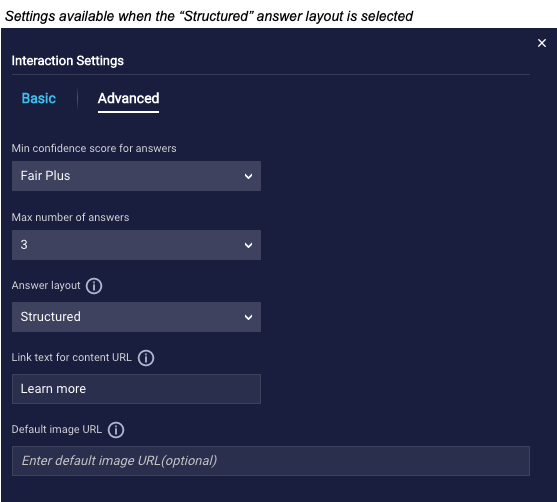
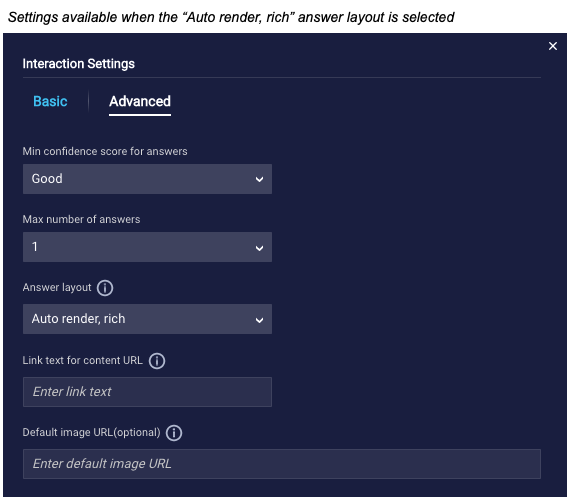
Update KnowledgeAI tile doc based on setting changes

Changed region(s): [[0.0, 0.0, 1.0, 1.0], [0.1526, 0.1811, 0.3052, 0.2414]]

diff --git a/pages/Documents/ConversationalAI/ConversationBuilder/Interactions/integrations.md b/pages/Documents/ConversationalAI/ConversationBuilder/Interactions/integrations.md
@@ -71,32 +71,30 @@ Powering bots with intelligent answers can increase containment: It helps to ens
 
 #### How the answers are rendered
 
-When you configure a Knowledge AI interaction, you specify an **Answer layout** for the answers, one of:
+When you configure a Knowledge AI interaction, you specify an **Answer layout** for the answers, i.e., one of these:
 
-* Structured
-* Simple
-* Custom 
+<img style="width:400px" src="img/ConvoBuilder/knowledge_ai_answerlayout.png">
 
-Both the Structured and Simple layouts are *rendered automatically*, and each uses a particular layout. With these options, there's no need to follow the Knowledge AI interaction with subsequent interactions that display the answers. The Knowledge AI interaction handles it all: both the knowledge base search and the rendering of the answers. When it meets your needs, one of these options is the simpler choice.
+The first two options are *rendered automatically*, and each uses a particular layout. With these options, there's no need to follow the Knowledge AI interaction with subsequent interactions that display the answers. The Knowledge AI interaction handles it all: both the knowledge base search and the rendering of the answers. When it meets your needs, one of these options is the simpler choice.
 
-If you require control over the article content and layout that's used, you can choose to use a Custom answer layout. In this case, you must follow the Knowledge AI interaction with subsequent interactions that display the answers.
+If you require control over the article content and layout that's used, you can choose to use a custom answer layout instead of auto rendering. In this case, you must follow the Knowledge AI interaction with subsequent interactions that display the answers.
 
 Select an answer layout based on the target channels and your requirements. For more on this interaction’s channel-level support, see [here](conversation-builder-interactions-interaction-support.html).
 
-#### The Structured answer layout
+#### The "Auto render, rich" answer layout
 
-The Structured layout looks like this:
+This layout looks like this:
 
 <img style="width:600px" src="img/ConvoBuilder/knowledge_ai_rich.png">
 
-With the Structured layout:
+With this layout:
 
 * Anywhere from one to three results are returned based on the maximum number of answers that you've specified in the interaction.
-* The results degrade gracefully to the Simple layout when the channel in use doesn't support the carousel.
+* The results degrade gracefully to the "Auto render, plain" layout when the channel in use doesn't support the carousel.
 
-#### The Simple answer layout
+#### The "Auto render, plain" answer layout
 
-The Simple layout doesn’t include rich elements like images. If the channel is Web messaging, which supports `href` tags, the output looks like this:
+This layout doesn’t include rich elements like images. If the channel is Web messaging, which supports `href` tags, the output looks like this:
 
 <img style="width:600px" src="img/ConvoBuilder/knowledge_ai_plain.png">
 
@@ -104,7 +102,7 @@ On all other channels, it looks like this:
 
 <img style="width:700px" src="img/ConvoBuilder/knowledge_ai_plain2.png">
 
-With the Simple layout:
+With this layout:
 
 * Only a single, best result is returned regardless of the maximum number of answers that you've specified in the interaction.
 * Any HTML in the article's content is **not** removed. (Take note of the formatting applied to **Cancel Flight** in the image above.) Use HTML in your source knowledge base only when your target channels support it.
@@ -129,19 +127,19 @@ With the Simple layout:
         This field isn't shown if you've selected an [external knowledge base that doesn't use LivePerson AI](knowledgeai-external-knowledge-bases-external-kbs-without-liveperson-ai.html). In this case, the results are simply those returned by the call to the external CMS.
 
     * **Max number of answers**: Select the maximum number of answers to return from the knowledge base, anywhere from one to three. The default value is one.
-    * **Answer layout**: Select "Structured," "Simple," or "Custom" based on your requirements. These layout options are discussed farther above.
-    * **Link text for content URL**: This setting is available when you select "Structured" or "Simple" for the **Answer layout**. Enter the "learn more" text to use. You can enter a botContext or environment variable here, e.g., {$botContext.\<name\>}. When the **Structured** layout is used, and when the **Simple** layout is used and the channel is Web messaging, this is the text for the `href` link to the article's content URL. When the **Simple** layout is used in any other channel, this value is sent as static text: [this value] + [article's content URL in shortened form], for example, "Learn more at www.mysite.com/abc." For illustrations, see the images earlier in this topic.
-    * **Default image URL**: This optional setting is available only when you select "Structured" for the **Answer layout**. If you enter an image URL, then when an article doesn't have an image URL within the knowledge base, this image is used in the Structured output. This presents a uniform consumer experience across all articles, even when some articles have images but others don't. You might specify a company logo. Remember to whitelist the image URL, as discussed [here](conversation-builder-networking-security.html#whitelisting-rich-media). You can also enter a botContext or environment variable here, e.g., {$botContext.\<name\>}.
-    * **Response data variable**: This setting is available only when you select "Custom" for the **Answer layout**. Enter the name of the response data variable that will store the answer results. The default variable name is "kb_search."
+    * **Answer layout**: Select "Auto render, rich," "Auto render, plain," or "No auto rendering" based on your requirements. These layout options are discussed farther above.
+    * **Link text for content URL**: This setting is available when you select an "auto rendering" option for the **Answer layout**. Enter the "learn more" text to use. You can enter a botContext or environment variable here, e.g., {$botContext.\<name\>}. When the "Auto render, rich" layout is used, and when the "Auto render, plain" layout is used and the channel is Web messaging, this is the text for the `href` link to the article's content URL. When the "Auto render, plain" layout is used in any other channel, this value is sent as static text: [this value] + [article's content URL in shortened form], for example, "Learn more at www.mysite.com/abc." For illustrations, see the images earlier in this topic.
+    * **Default image URL**: This optional setting is available only when you select "Auto render, rich" for the **Answer layout**. If you enter an image URL, then when an article doesn't have an image URL within the knowledge base, this image is used in the rich output. This presents a uniform consumer experience across all articles, even when some articles have images but others don't. You might specify a company logo. Remember to whitelist the image URL, as discussed [here](conversation-builder-networking-security.html#whitelisting-rich-media). You can also enter a botContext or environment variable here, e.g., {$botContext.\<name\>}.
+    * **Response data variable**: This setting is available only when you select "No auto rendering" for the **Answer layout**. Enter the name of the response data variable that will store the answer results. The default variable name is "kb_search."
 7. Click **Save**.
-8. Configure rules that direct the conversation flow based on the search results; this is described below. If you’ve selected "Custom" for the **Answer layout** setting, you’ll also need to add the interactions that display the answers.
+8. Configure rules that direct the conversation flow based on the search results; this is described below. If you’ve selected "No auto rendering" for the **Answer layout** setting, you’ll also need to add the interactions that display the answers.
 
 {: .important}
 You might be familiar with implementing a knowledge base search using an Integration interaction that itself uses a specified [Knowledge Base integration](conversation-builder-integrations-knowledge-base-integrations.html) to perform the search. That approach is still supported, but it is considered a legacy approach. The Knowledge AI interaction is a simpler alternative because it doesn’t need an associated Knowledge Base integration.
 
-#### Using the Custom answer layout
+#### No auto rendering: Using a custom answer layout
 
-Choose the Custom answer layout when you require control over how the answers are rendered. With this option, you must manually add the interactions that display the article content.
+Choose the "No auto rendering" answer layout when you require control over how the answers are rendered. With this option, you must manually add the interactions that display the article content.
 
 To display a single, best result, use the syntax below, where "variableName" is the response data variable name that you specified in the Knowledge AI interaction's settings:
 
